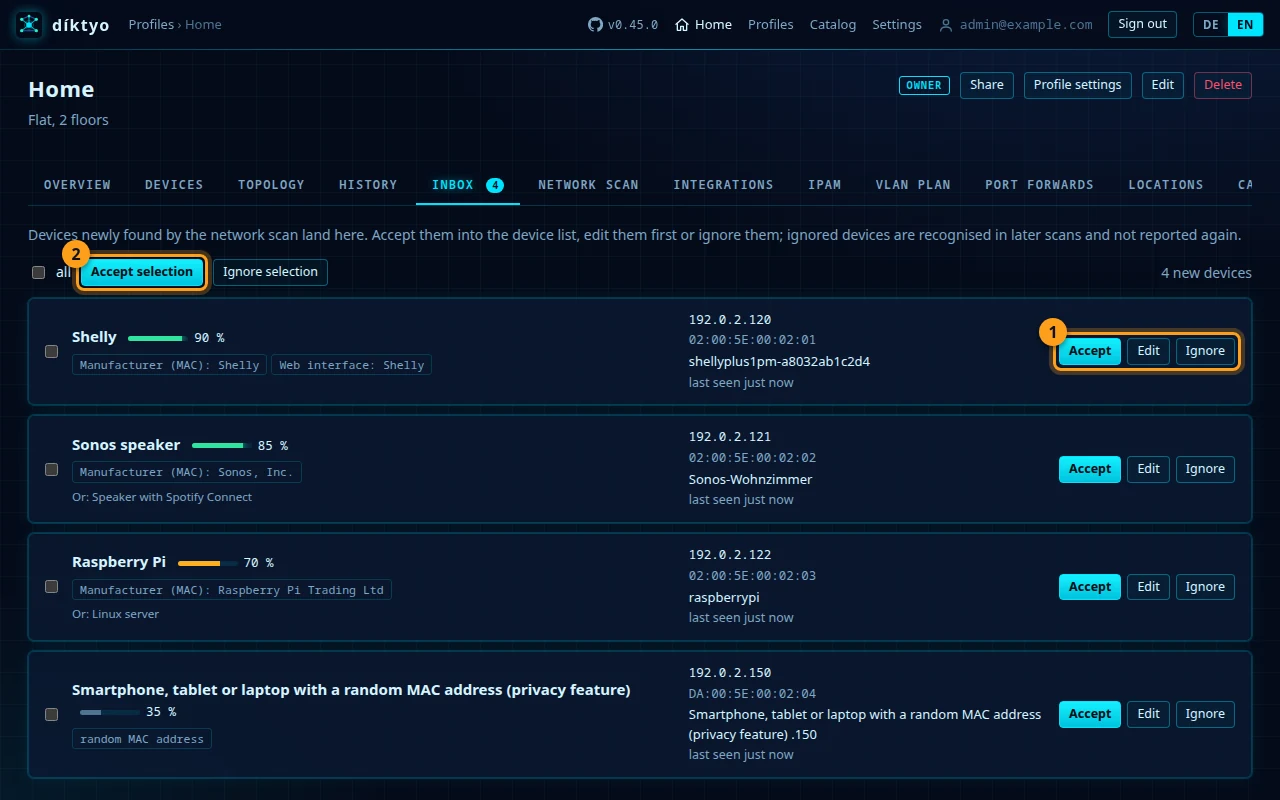
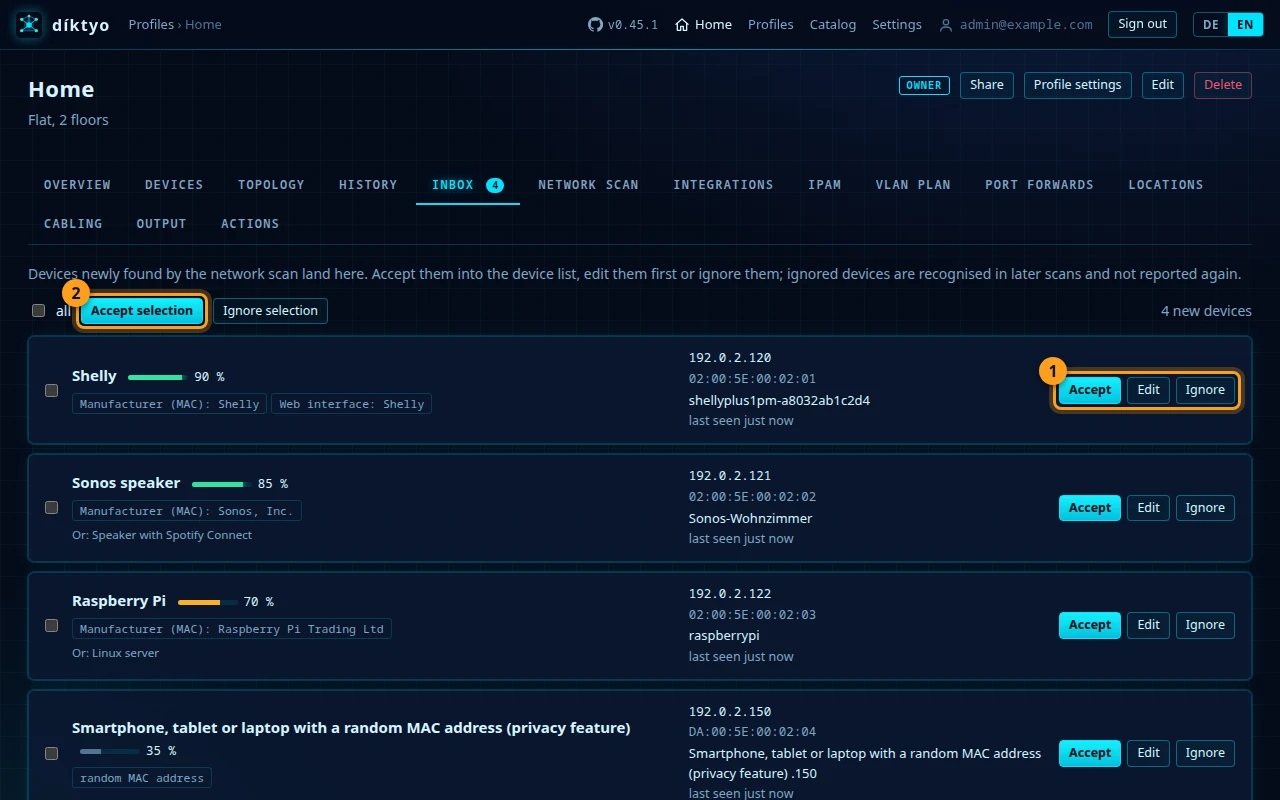
Reiterleiste bricht um, Integrationskacheln ohne Lücken, FRITZ!Box-Portfreigaben robuster mit sichtbarem Grund (0.45.1)
- Reiterleiste: Umbruch in eine zweite Zeile statt seitlichem Scrollen
- Integrationen: Kacheln rücken nach oben auf (Masonry über Grid-Zeilen + ResizeObserver)
- FRITZ!Box: Standardverbindung zuerst, Lesen auch ohne GetPortMappingNumberOfEntries,
  Grund im Reiter Portfreigaben, wenn die Liste fehlt (Recht „FRITZ!Box Einstellungen“, Box ohne Abfrage)
- UPnP-Fehler 401 (Aktion fehlt) gilt nicht mehr als abgelehnte Anmeldung

Changed region(s): [[0.0, 0.25, 1.0, 1.0], [0.8125, 0.5625, 0.9688, 0.6562]]

diff --git a/app/static/portfw.js b/app/static/portfw.js
@@ -59,7 +59,8 @@ async function tabPortfw(ctx) {
     ctx.el.innerHTML = `<div class="panel">
       <div class="hud-h"><h3>${t('Portfreigaben und UPnP')}</h3>${st.new ? `<span class="hint">${t('{n} neu', { n: st.new })}</span>` : ''}</div>
       <p class="muted small">${t('Was der Router aus dem Internet an Geräte im Heimnetz weiterleitet – eingerichtete Freigaben und solche, die Geräte per UPnP selbst angelegt haben. Neue Einträge bleiben markiert, bis du sie als bekannt bestätigst. díktyo ändert nichts am Router.')}</p>
-      ${!st.sources.length ? `<div class="hint-box small">${t('Noch keine Quelle. Portfreigaben liefern: FRITZ!Box (mit Benutzer), ASUS, OpenWrt, MikroTik (API/REST), OPNsense (ab 25.7) und UniFi – jeweils als Integration.')}</div>` : `
+      ${(st.problems || []).map(x => `<div class="hint-box small warnc"><b>${h(x.name)}:</b> ${h(ts(x.error))}${x.driver === 'fritzbox' && /Recht/.test(x.error) ? ` – ${t('in der FRITZ!Box unter System → FRITZ!Box-Benutzer → Benutzer bearbeiten.')}` : ''}</div>`).join('')}
+      ${!st.sources.length && (st.problems || []).length ? '' : !st.sources.length ? `<div class="hint-box small">${t('Noch keine Quelle. Portfreigaben liefern: FRITZ!Box (mit Benutzer), ASUS, OpenWrt, MikroTik (API/REST), OPNsense (ab 25.7) und UniFi – jeweils als Integration.')}</div>` : `
       <div class="kv small"><span>${t('Freigaben')}: <b>${st.total}</b></span><span>UPnP: <b>${st.upnp}</b></span><span>${t('Quellen')}: ${src}</span></div>
       <div class="row pf-filters" style="margin:10px 0;flex-wrap:wrap;gap:8px">
         <input type="search" id="pfq" placeholder="${h(t('Suchen (IP, Port, Gerät, Beschreibung) …'))}" value="${h(ui.q)}" style="max-width:320px">

diff --git a/app/static/integrations.js b/app/static/integrations.js
@@ -182,6 +182,24 @@ function rangeButtons(cur) {
 /* Integrationen mit Diagrammen oder Port-/Gerätelisten bekommen im Raster doppelte Breite */
 const BIG_CARDS = ['fritzbox', 'snmp', 'devolo', 'asuswrt', 'proxmox', 'omada', 'unifi', 'mikrotik', 'opnsense', 'openwrt'];
 
+/* Kacheln ohne Lücken: jede Kachel belegt so viele 4-px-Zeilen, wie sie hoch ist; neu berechnet, sobald sich ihre Höhe ändert
+   (Diagramme, aufgeklappte Kanaltabellen …). Die Reihenfolge bleibt zeilenweise von links nach rechts. */
+function masonry(grid) {
+  if (!grid) return;
+  masonry.ro?.disconnect();
+  grid.classList.add('masonry');
+  const fit = card => {
+    const hgt = card.getBoundingClientRect().height + 16;
+    card.style.gridRowEnd = `span ${Math.max(1, Math.ceil(hgt / 4))}`;
+  };
+  const cards = [...grid.children].filter(c => c.classList.contains('integ'));
+  cards.forEach(fit);
+  if (window.ResizeObserver) {
+    masonry.ro = new ResizeObserver(es => es.forEach(e => fit(e.target)));
+    cards.forEach(c => masonry.ro.observe(c));
+  }
+}
+
 async function tabIntegrations(ctx) {
   await meta(ctx.pid);  // Auswahllisten für den Gerätedialog („Gerät öffnen“)
   const P = `/api/profiles/${ctx.pid}`;
@@ -296,6 +314,7 @@ async function tabIntegrations(ctx) {
       }
     }
   }
+  masonry($('#ints', ctx.el));
   // Ansicht aktuell halten, solange der Reiter offen ist
   { const hb = document.createElement('div'); hb.style.marginTop = '16px'; ctx.el.appendChild(hb); waits.push(healthPanel(ctx, hb)); }
   clearTimeout(tabIntegrations.timer);

diff --git a/app/static/style.css b/app/static/style.css
@@ -142,7 +142,7 @@ dialog .f{display:flex;justify-content:flex-end;gap:8px;padding:14px 20px;border
 .row.top{align-items:flex-start}
 .block{display:block}
 .small{font-size:12.5px}
-.tabs{display:flex;gap:2px;border-bottom:1px solid var(--line);margin:18px 0 18px;overflow-x:auto}
+.tabs{display:flex;flex-wrap:wrap;gap:2px;border-bottom:1px solid var(--line);margin:18px 0 18px}
 .tabs a{padding:9px 16px;color:var(--mute);text-decoration:none;font:600 12px/1.4 var(--mono);text-transform:uppercase;letter-spacing:.1em;border-bottom:2px solid transparent;white-space:nowrap}
 .tabs a:hover{color:var(--ink)}
 .tabs a.on{color:var(--cyan);border-bottom-color:var(--cyan);text-shadow:0 0 10px rgba(0,229,255,.5)}
@@ -587,6 +587,9 @@ a.kpi:hover{border-color:var(--cyan);box-shadow:0 0 18px rgba(0,229,255,.25)}
 /* Integrationen im Raster: große Karten (Diagramme, Ports) doppelt breit, kleine einfach */
 .ints-grid{display:grid;grid-template-columns:repeat(auto-fill,minmax(440px,1fr));gap:16px;grid-auto-flow:row dense;align-items:start}
 .ints-grid>.integ{min-width:0}
+/* Kacheln rücken nach oben auf (Masonry): Zeilen à 4 px, jede Kachel belegt so viele, wie sie hoch ist (integrations.js) */
+.ints-grid.masonry{grid-auto-rows:4px;row-gap:0}
+.ints-grid.masonry>.integ{margin-bottom:16px}
 .ints-grid>.integ.big{grid-column:span 2}
 .ints-grid>.empty-box{grid-column:1/-1}
 @media (max-width:1000px){.ints-grid{grid-template-columns:1fr}.ints-grid>.integ.big{grid-column:auto}}

diff --git a/app/static/i18n.js b/app/static/i18n.js
@@ -1203,6 +1203,7 @@ Object.assign(window.I18N_EN, {
   "1 neue Portfreigabe": "1 new port forward",
   "{n} neue Portfreigaben": "{n} new port forwards",
   "Neue Portfreigabe (auch UPnP)": "New port forward (incl. UPnP)",
+  'in der FRITZ!Box unter System → FRITZ!Box-Benutzer → Benutzer bearbeiten.': 'in the FRITZ!Box under System → FRITZ!Box Users → edit user.',
   'Kabel-Etiketten': 'Cable labels', 'Kabel suchen …': 'Search cables …', 'Kein Kabel passt.': 'No cable matches.',
   'je Kabelende ein Etikett (nennt die Gegenstelle)': 'one label per cable end (names the far end)',
   'Noch keine Kabelnummern. Trage sie im Reiter Verkabelung bei den Kabelwegen ein (Patchkabel, Verlegekabel, Anschlusskabel).': 'No cable numbers yet. Enter them for the cable runs in the Cabling tab (patch cable, installation cable, device cable).',

diff --git a/tests/test_p3_portforwards.py b/tests/test_p3_portforwards.py
@@ -18,16 +18,36 @@ def test_common_format():
     assert forward("upnp", "udp", "any", "192.0.2.6", None, lease="3600")["ext"] == "" and forward("upnp", "udp", 1, "x", lease="3600")["lease"] == 3600
 
 
+class FritzActionError(Exception):  # wie fritzconnection: UPnP-Fehler 401 = Aktion/Dienst fehlt (keine Anmeldefrage)
+    pass
+
+
+class FritzSecurityError(Exception):  # UPnP-Fehler 606 = Aktion nicht erlaubt (Benutzerrecht fehlt)
+    pass
+
+
+class FritzArrayIndexError(Exception):  # UPnP-Fehler 713 = Index gibt es nicht (Ende der Liste)
+    pass
+
+
 class FakeFC:
-    def __init__(self, entries, svc="WANIPConn1"):
-        self.entries, self.svc, self.calls = entries, svc, 0
+    def __init__(self, entries, svc="WANIPConn1", count=True, perm=True, default=None):
+        self.entries, self.svc, self.calls, self.count, self.perm, self.default = entries, svc, 0, count, perm, default
 
     def call_action(self, svc, act, **kw):
         self.calls += 1
+        if svc == "Layer3Forwarding1" and self.default:
+            return {"NewDefaultConnectionService": self.default}
         if svc != self.svc:
-            raise Exception("UPnPError 401: invalid action")
+            raise FritzActionError("UPnPError:\nerrorCode: 401\nerrorDescription: Invalid Action")
+        if not self.perm:
+            raise FritzSecurityError("UPnPError:\nerrorCode: 606\nerrorDescription: Action not authorized")
         if act == "GetPortMappingNumberOfEntries":
+            if not self.count:
+                raise FritzActionError("UPnPError:\nerrorCode: 401\nerrorDescription: Invalid Action")
             return {"NewPortMappingNumberOfEntries": len(self.entries)}
+        if kw["NewPortMappingIndex"] >= len(self.entries):
+            raise FritzArrayIndexError("UPnPError:\nerrorCode: 713\nerrorDescription: SpecifiedArrayIndexInvalid")
         return self.entries[kw["NewPortMappingIndex"]]
 
 
@@ -45,13 +65,32 @@ def test_fritzbox_reader_and_interval():
         ("", "TCP", "443", "192.168.178.50", "Nextcloud", None), ("upnp", "UDP", "51413", "192.168.178.77", "Transmission", 3500)]
     assert len(fritzbox.forwards(FakeFC(FB_ENTRIES, svc="WANPPPConnection1"))) == 2  # DSL mit PPPoE
     fc, st = FakeFC(FB_ENTRIES), {}
-    assert fritzbox.poll_forwards(fc, {}, st) == (None, False)  # ohne Benutzer/Passwort nicht lesbar
-    lst, cached = fritzbox.poll_forwards(fc, {"password": "pw"}, st, now=1000)
-    assert len(lst) == 2 and not cached
+    assert fritzbox.poll_forwards(fc, {}, st) == (None, False, fritzbox.PF_ERR["nopw"])  # ohne Benutzer/Passwort nicht lesbar
+    lst, cached, err = fritzbox.poll_forwards(fc, {"password": "pw"}, st, now=1000)
+    assert len(lst) == 2 and not cached and err == ""
     n = fc.calls
-    lst, cached = fritzbox.poll_forwards(fc, {"password": "pw"}, st, now=1000 + 60)
+    lst, cached, _ = fritzbox.poll_forwards(fc, {"password": "pw"}, st, now=1000 + 60)
     assert cached and fc.calls == n  # innerhalb von 5 Minuten keine neuen TR-064-Abfragen
     assert not fritzbox.poll_forwards(fc, {"password": "pw"}, st, now=1000 + fritzbox.FORWARDS_S)[1]
+    # Box ohne GetPortMappingNumberOfEntries: bis zum ungültigen Index (713) lesen
+    assert len(fritzbox.forwards(FakeFC(FB_ENTRIES, count=False))) == 2
+    assert fritzbox.forwards(FakeFC([], count=False)) == []  # keine Freigaben ist kein Fehler
+    # Standardverbindung (Layer3Forwarding) zuerst
+    fc = FakeFC(FB_ENTRIES, svc="WANPPPConnection1", default="InternetGatewayDevice.WANDevice.1.WANConnectionDevice.1.WANPPPConnection.1")
+    assert len(fritzbox.forwards(fc)) == 2 and fritzbox._pf_services(fc)[0] == "WANPPPConnection1"
+    # Benutzerrecht fehlt (606) -> Grund im Ergebnis statt stiller Lücke
+    lst, _, err = fritzbox.poll_forwards(FakeFC(FB_ENTRIES, perm=False), {"password": "pw"}, {}, now=1)
+    assert lst is None and err == fritzbox.PF_ERR["perm"]
+    # Box ohne die Aktionen
+    lst, _, err = fritzbox.poll_forwards(FakeFC(FB_ENTRIES, svc="X"), {"password": "pw"}, {}, now=1)
+    assert lst is None and err == fritzbox.PF_ERR["missing"]
+    # UPnP-Fehler 401 ist keine abgelehnte Anmeldung
+    try:
+        fritzbox._call(FakeFC([], svc="X"), "WANIPConn1", "GetInfo")
+    except PermissionError:
+        raise AssertionError("Invalid Action als Anmeldefehler gewertet")
+    except FritzActionError:
+        pass
 
 
 def test_router_readers():
@@ -108,7 +147,11 @@ def test_track_events_ack_notes_and_dashboard(monkeypatch):
     out = {"forwards": fb_list[:1], "cached": False}
 
     def fake_poll(conf, state):
-        res = dict(info=dict(model="FRITZ!Box 7590"), wan={}, hosts=[], mesh={}, auth=True, wlan=[], forwards=out["forwards"], forwards_cached=out["cached"])
+        res = dict(info=dict(model="FRITZ!Box 7590"), wan={}, hosts=[], mesh={}, auth=True, wlan=[])
+        if out.get("error"):
+            res["forwards_error"] = out["error"]
+        else:
+            res.update(forwards=out["forwards"], forwards_cached=out["cached"])
         return res, {}, state
     monkeypatch.setattr(fritzbox, "poll", fake_poll)
 
@@ -152,6 +195,14 @@ def test_track_events_ack_notes_and_dashboard(monkeypatch):
     integrations.poll(d["fiid"])
     st = cl.get(f"{P}/portforwards").json()
     assert st["total"] == 2 and st["new"] == 1 and len(events()) == 2
+    # Liste nicht lesbar: Grund erscheint im Reiter, Bekanntes wird nicht verworfen
+    out["error"] = fritzbox.PF_ERR["perm"]
+    integrations.poll(d["fiid"])
+    st = cl.get(f"{P}/portforwards").json()
+    assert st["total"] == 0 and st["problems"] == [dict(id=d["fiid"], name="FRITZ!Box", driver="fritzbox", error=fritzbox.PF_ERR["perm"])]
+    out.pop("error")
+    integrations.poll(d["fiid"])
+    assert cl.get(f"{P}/portforwards").json()["new"] == 1 and len(events()) == 2
     # Lesen-Recht: sehen ja, quittieren nein
     from fastapi.testclient import TestClient
     from app import main, users
@@ -169,4 +220,4 @@ def test_track_events_ack_notes_and_dashboard(monkeypatch):
     with db() as c:
         pf = json.loads(c.execute("SELECT settings FROM profiles WHERE id=?", (pid,)).fetchone()["settings"])["portfw"]
     assert pf["known"] == {} and pf["notes"] == {} and pf["base"] == []
-    assert cl.get(f"{P}/portforwards").json() == dict(items=[], sources=[], new=0, upnp=0, total=0)
+    assert cl.get(f"{P}/portforwards").json() == dict(items=[], sources=[], problems=[], new=0, upnp=0, total=0)

diff --git a/app/drivers/fritzbox.py b/app/drivers/fritzbox.py
@@ -46,7 +46,9 @@ def _call(fc, svc, act, **kw):
     try:
         return fc.call_action(svc, act, **kw)
     except Exception as ex:
-        if "401" in str(ex) or "Authorization" in type(ex).__name__:
+        # HTTP 401 = Anmeldung abgelehnt; UPnP-Fehler 401 („Invalid Action“, FritzActionError) heißt nur: Aktion fehlt
+        if "Authorization" in type(ex).__name__ or ("401" in str(ex) and type(ex).__name__ not in ("FritzActionError", "FritzServiceError")
+                                                     and "errorCode" not in str(ex)):
             raise PermissionError(str(ex))
         raise
 
@@ -648,46 +650,91 @@ def poll_line(fc, conf, state, now=None):
 FORWARDS_S = 300  # je Eintrag eine eigene Abfrage – deshalb nur alle 5 Minuten
 
 
-def forwards(fc):
+def _pf_services(fc):
+    """Dienste mit Portfreigaben: die Standardverbindung zuerst (Layer3Forwarding), dann alle WANIP-/WANPPP-Dienste der Box."""
+    names = list(getattr(fc, "services", None) or [])
+    cand = [n for n in names if n.startswith(("WANIPConn", "WANPPPConn"))] or ["WANIPConn1", "WANPPPConnection1"]
+    try:
+        d = str(_call(fc, "Layer3Forwarding1", "GetDefaultConnectionService").get("NewDefaultConnectionService") or "")
+        pref = "WANPPPConnection" if "WANPPP" in d else "WANIPConn" if "WANIP" in d else ""
+        if pref:
+            cand.sort(key=lambda n: not n.startswith(pref))
+    except Exception:
+        pass
+    return cand
+
+
+def _pf_err(ex):
+    """Fehler einer TR-064-Abfrage als Kurzbeschreibung."""
+    txt = str(ex)
+    if isinstance(ex, PermissionError) or type(ex).__name__ == "FritzSecurityError" or "606" in txt:
+        return "perm"
+    if type(ex).__name__ in ("FritzActionError", "FritzServiceError") or "401" in txt or "Invalid Action" in txt:
+        return "missing"
+    return " ".join(txt.split())[:160] or type(ex).__name__
+
+
+def forwards(fc, errors=None):
     """IPv4-Portfreigaben über TR-064 (WANIPConnection bzw. WANPPPConnection). TR-064 unterscheidet nicht, ob eine Freigabe
     in der Oberfläche eingerichtet oder von einem Gerät (UPnP/PCP) angelegt wurde – mit Laufzeit gilt sie als automatisch.
-    None, wenn die Box die Liste nicht liefert."""
+    Kennt die Box GetPortMappingNumberOfEntries nicht, wird bis zum ersten ungültigen Index gelesen.
+    None, wenn die Box die Liste nicht liefert; die Gründe landen dann in errors."""
     from .controller import forward
+    errors = [] if errors is None else errors
     best = None
-    for svc in ("WANIPConn1", "WANPPPConnection1"):
+    for svc in _pf_services(fc):
+        n = None
         try:
             n = int(_call(fc, svc, "GetPortMappingNumberOfEntries").get("NewPortMappingNumberOfEntries") or 0)
-        except Exception:
-            continue
-        out = []
-        for i in range(min(n, 200)):
+        except Exception as ex:
+            errors.append(_pf_err(ex))
+        out, ok = [], n is not None
+        for i in range(min(n, 200) if n is not None else 200):
             try:
                 r = _call(fc, svc, "GetGenericPortMappingEntry", NewPortMappingIndex=i)
-            except Exception:
+            except Exception as ex:
+                e = _pf_err(ex)
+                if n is None and i == 0 and type(ex).__name__ != "FritzArrayIndexError" and "713" not in str(ex):
+                    errors.append(e)  # Eintrag 0 nicht lesbar und keine Anzahl: dieser Dienst liefert nichts
+                else:
+                    ok = True  # Liste zu Ende (713 = ungültiger Index)
                 break
+            ok = True
             lease = r.get("NewLeaseDuration")
             out.append(forward("upnp" if str(lease or "0") not in ("0", "") else "", r.get("NewProtocol"), r.get("NewExternalPort"),
                                r.get("NewInternalClient"), r.get("NewInternalPort"), r.get("NewPortMappingDescription"),
                                str(r.get("NewEnabled")) in ("1", "True", "true"), r.get("NewRemoteHost") or "", lease))
-        if best is None or len(out) > len(best):
+        if ok and (best is None or len(out) > len(best)):
             best = out
     return best
 
 
+PF_ERR = {
+    "perm": "Keine Berechtigung für die Portfreigaben – der FRITZ!Box-Benutzer braucht das Recht „FRITZ!Box Einstellungen“",
+    "missing": "Diese FRITZ!Box liefert die Portfreigaben nicht über TR-064",
+    "nopw": "Für die Portfreigaben Benutzer und Passwort angeben",
+}
+
+
 def poll_forwards(fc, conf, state, now=None):
-    """-> (liste oder None, aus dem Zwischenspeicher?)"""
+    """-> (liste oder None, aus dem Zwischenspeicher?, fehlertext oder "")"""
     import time
     now = now or time.time()
     if not conf.get("password"):
-        return None, False
-    if state.get("pf_list") is not None and now - (state.get("pf_ts") or 0) < FORWARDS_S:
-        return state["pf_list"], True
+        return None, False, PF_ERR["nopw"]
+    if "pf_list" in state and now - (state.get("pf_ts") or 0) < FORWARDS_S:
+        return state["pf_list"], True, state.get("pf_err") or ""
+    errors = []
     try:
-        lst = forwards(fc)
-    except PermissionError:
-        lst = None
-    state["pf_ts"], state["pf_list"] = now, lst
-    return lst, False
+        lst = forwards(fc, errors)
+    except Exception as ex:
+        lst, errors = None, [_pf_err(ex)]
+    err = ""
+    if lst is None:
+        code = "perm" if "perm" in errors else next((e for e in errors if e not in ("perm", "missing")), "missing")
+        err = PF_ERR.get(code) or f"Portfreigaben nicht lesbar: {code}"
+    state["pf_ts"], state["pf_list"], state["pf_err"] = now, lst, err
+    return lst, False, err
 
 
 def fw_version(s):
@@ -724,9 +771,11 @@ def poll(conf, state):
     if "rx_bps" in res["wan"]:
         metrics = {"wan:rx": res["wan"]["rx_bps"], "wan:tx": res["wan"]["tx_bps"]}
     state = dict(state)
-    fw_list, cached = poll_forwards(fc, conf, state)
+    fw_list, cached, fw_err = poll_forwards(fc, conf, state)
     if fw_list is not None:
         res["forwards"], res["forwards_cached"] = fw_list, cached
+    elif fw_err:
+        res["forwards_error"] = fw_err
     line, lm = poll_line(fc, conf, state)
     if line:
         res["line"] = line

diff --git a/app/portforwards.py b/app/portforwards.py
@@ -79,10 +79,12 @@ def _devices_by_ip(c, pid):
 def state(c, pid, device_id=None):
     _, pf = _load(c, pid)
     by_ip = _devices_by_ip(c, pid)
-    items, sources = [], []
+    items, sources, problems = [], [], []
     for r in c.execute("SELECT id, name, driver, enabled, state FROM integrations WHERE profile_id=? ORDER BY id", (pid,)):
         res = (json.loads(r["state"] or "{}").get("result") or {})
         if "forwards" not in res:
+            if res.get("forwards_error"):  # Quelle vorhanden, Liste aber nicht lesbar: Grund im Reiter zeigen
+                problems.append(dict(id=r["id"], name=r["name"], driver=r["driver"], error=res["forwards_error"]))
             continue
         sources.append(dict(id=r["id"], name=r["name"], driver=r["driver"], kind=DRIVER_NAMES.get(r["driver"], r["driver"]),
                             count=len(res["forwards"] or []), enabled=bool(r["enabled"])))
@@ -94,7 +96,7 @@ def state(c, pid, device_id=None):
             items.append(dict(f, key=k, integration=r["id"], source=r["name"], driver=r["driver"], device=dev,
                               note=pf["notes"].get(k, ""), new=k in pf["new"], since=pf["known"].get(k)))
     items.sort(key=lambda x: (not x["new"], (x["device"] or {}).get("name", "~" + x["ip"]).lower(), x["proto"], x["ext"]))
-    return dict(items=items, sources=sources, new=sum(1 for x in items if x["new"]),
+    return dict(items=items, sources=sources, problems=problems, new=sum(1 for x in items if x["new"]),
                 upnp=sum(1 for x in items if x["kind"] == "upnp"), total=len(items))
 
 

diff --git a/app/msg_en.py b/app/msg_en.py
@@ -521,3 +521,12 @@ ERR_EN.update({
 ERR_EN.update({
     "Diese Freigabe gibt es nicht (mehr)": "This port forward does not exist (any more)",
 })
+
+# Portfreigaben der FRITZ!Box: Gründe, wenn die Liste fehlt (0.45.1)
+ERR_EN.update({
+    "Keine Berechtigung für die Portfreigaben – der FRITZ!Box-Benutzer braucht das Recht „FRITZ!Box Einstellungen“":
+        "No permission for port forwards – the FRITZ!Box user needs the “FRITZ!Box settings” right",
+    "Diese FRITZ!Box liefert die Portfreigaben nicht über TR-064": "This FRITZ!Box does not provide its port forwards via TR-064",
+    "Für die Portfreigaben Benutzer und Passwort angeben": "Enter user name and password for the port forwards",
+})
+ERR_EN_PREFIX["Portfreigaben nicht lesbar: "] = "Port forwards not readable: "

diff --git a/app/integrations.py b/app/integrations.py
@@ -151,6 +151,8 @@ def _slim(driver, res):
     out = _slim_view(driver, res)
     if res.get("forwards") is not None:  # Portfreigaben (alle Router-Treiber)
         out["forwards"] = res["forwards"]
+    elif res.get("forwards_error"):
+        out["forwards_error"] = res["forwards_error"]
     rates = client_rates(res)
     if rates:
         out["rates"] = rates

diff --git a/app/version.py b/app/version.py
@@ -1,3 +1,3 @@
 """Version und Projektadresse von díktyo (eine Stelle für alles)."""
-VERSION = "0.45.0"
+VERSION = "0.45.1"
 REPO_URL = "https://github.com/xpistaki-bit/diktyo"

diff --git a/docs/architecture.md b/docs/architecture.md
@@ -118,6 +118,7 @@ Phase 2:
 | P3.29 | planned guest VLANs: `profiles.settings.vlan_plan.guests` = {device_id: vid or null} (only deviations); `vlanplan.set_guest_plan` (`PUT /vlanplan/plan/guests`, VLAN must exist, also planned), `state` adds `plan_vid`/`plan_vlan_id`/`changed` per guest and `guest_diff`; checks use planned tags in plan mode; `plan_finish` counts open guest changes; PDF change list includes guests; dropped with the plan | done (0.43.0) |
 | P3.30 | FRITZ!Box line values: `fritzbox.poll_line` – DSL via TR-064 `WANDSLInterfaceConfig1` (GetInfo, GetStatisticsTotal; AVM reports 1/10 dB) on every poll; cable via web login + `data.lua?page=docInfo` every `LINE_WEB_S` (900 s), logout afterwards, `LINE_BLOCK_S` back-off after a rejected login; `parse_docinfo`, `line_hints` (guide values, de/en text), `line_metrics` (`line:snr_*`, `line:rate_*`, `line:us_pwr_max`, `line:err` = new errors since last measurement); state keeps `line_kind`/`line_last`/`line_hints`; `integrations.line_events` emits `line_degraded` once per new hint code; dashboard issues, pin unit `dB`, Prometheus `diktyo_line_*` | done (0.44.0) |
 | P3.31 | port forwards / UPnP: drivers return `res["forwards"]` in the common format `controller.forward` (kind static/upnp/"", proto, ext, ip, port, desc, enabled, remote, lease); FRITZ!Box via TR-064 every `FORWARDS_S` (300 s, `forwards_cached` otherwise), ASUS `vts_rulelist` + `get_upnp_array()` (every 300 s), OpenWrt uci firewall redirects + `luci.upnp`, MikroTik `ip/firewall/nat` dst-nat, OPNsense `firewall/d_nat/search_rule`, UniFi `rest/portforward`; `_slim` keeps `forwards`; `portforwards.track` after each poll (baseline on first run, `port_forward_new` event, key includes target so re-pointing counts as new), state in `profiles.settings.portfw` (known/new/notes/base); API `GET /portforwards[.csv]`, `POST /portforwards/ack`, `PUT /portforwards/note`; device detail adds `forwards`; dashboard count `portfw_new`; tab `portfreigaben` (portfw.js) | done (0.45.0) |
+| P3.31a | `.tabs` wraps (flex-wrap) instead of horizontal scroll; integration cards use a JS masonry (`masonry()` in integrations.js: 4 px grid rows, `grid-row-end: span n` from each card's height, ResizeObserver keeps it current); FRITZ!Box forwards: `_pf_services` (Layer3Forwarding default first), reading without `GetPortMappingNumberOfEntries` until 713, `poll_forwards` returns `(list, cached, error)` and caches failures for `FORWARDS_S`, `res["forwards_error"]` -> `portforwards.state()["problems"]` shown in the tab; `_call` no longer maps UPnP error 401 (Invalid Action) to PermissionError | done (0.45.1) |
 | P3.2 | speed tests: internet (Cloudflare, scheduled, history, slow-line hint) and iperf3 to a device | done (0.19.0) |
 | P2.16 | live traffic per client (Omada, UniFi stat/sta, MikroTik registrations/Kid Control, OPNsense top talkers, Proxmox guests) in topology, device dialog and overview; illustrated getting-started guide | done (0.18.0), client rates not yet tested on real hardware |
  Phase 3: change history between scans, cable and patch-panel documentation,

diff --git a/docs/ROADMAP.de.md b/docs/ROADMAP.de.md
@@ -1,6 +1,6 @@
 # díktyo – Plan, Erweiterungen und Verbesserungen
 
-Stand: Version 0.45.0 (November 2026). Ideen aus NetworkOptimizer, NetAlertX, homelable, reconYa, netronome,
+Stand: Version 0.45.1 (November 2026). Ideen aus NetworkOptimizer, NetAlertX, homelable, reconYa, netronome,
 ZeroTier und ntop sind in Abschnitt 4 eingeordnet (nur Ideen, kein übernommener Code). Die ausführliche Bedienung steht in [ANLEITUNG.de.md](ANLEITUNG.de.md),
 der technische Aufbau in [architecture.md](architecture.md).
 
@@ -64,6 +64,7 @@ der technische Aufbau in [architecture.md](architecture.md).
 | VLAN-Plan: VMs und Container | Im Plan-Modus geplantes VLAN-Tag je VM/Container (Klick auf den Gast), Anzeige „alt → neu“, eigener Abschnitt in der Umstellungsliste („in Proxmox umstellen“), erledigt sich, sobald Proxmox das neue Tag meldet; Prüfung des Host-Ports mit den geplanten Tags; Abschließen/Verwerfen und PDF berücksichtigen die Gäste | 0.43 |
 | Leitungswerte der FRITZ!Box | DSL über TR-064 (Sync-Rate, möglich, Störabstand, Dämpfung, CRC/FEC, Neusynchronisierungen), Kabel/DOCSIS über die Weboberfläche alle 15 Minuten (alle Kanäle mit Pegel, MSE/MER, Fehlern; Abmeldung danach, eine Stunde Pause nach abgelehnter Anmeldung); Hinweise nach Richtwerten auf der Karte und unter *Braucht Aufmerksamkeit*, Benachrichtigung „Leitung verschlechtert“, Störabstand im Verlauf (anheftbar, Einheit dB), Prometheus-Metriken | 0.44 |
 | Portfreigaben und UPnP | Eigener Reiter: Freigaben und UPnP-Weiterleitungen aus FRITZ!Box (TR-064, alle 5 min), ASUS (Virtueller Server + UPnP-Liste), OpenWrt (DNAT + luci-app-upnp), MikroTik (dst-nat), OPNsense (Destination NAT ab 25.7) und UniFi; Gerät hinter der Ziel-IP, riskante Dienste markiert, Notiz, CSV; neue bzw. umgebogene Freigaben markiert bis zum Bestätigen, in der Übersicht und als Benachrichtigung; Abschnitt im Gerätedialog | 0.45 |
+| Nachbesserungen | Reiterleiste bricht in eine zweite Zeile um statt seitlich zu scrollen; Integrationskacheln rücken nach oben auf (keine Lücken mehr); FRITZ!Box-Portfreigaben robuster (Standardverbindung zuerst, Lesen ohne Eintragsanzahl) und mit sichtbarem Grund, wenn die Liste fehlt (fehlendes Recht „FRITZ!Box Einstellungen“, Box ohne Abfrage); UPnP-Fehler 401 („Aktion fehlt“) gilt nicht mehr als abgelehnte Anmeldung | 0.45.1 |
 | MikroTik und Sprache | MikroTik über die RouterOS-API (Port 8728/8729, RouterOS 6 und 7) als Standard, REST weiter wählbar, kein SSH-Backup mehr (RouterOS hat eigene Backups); alle Server-Meldungen, Aktionen, Diagnosen und gespeicherten Fehler auf Englisch, wenn Englisch gewählt ist (auch in Benachrichtigungen), Test gegen fehlende Übersetzungen; automatisch erzeugte Gerätenamen auf Englisch | 0.33.1 |
 | Netzplan-Export | Topologie als SVG, PNG (doppelte Auflösung), draw.io (Geräte mit IP/MAC/Typ/Modell/Standort als Eigenschaften) und Poster-PDF A4–A0 mit Schriftfeld, wahlweise auf A4 gekachelt mit Überlappung und Blattnummern; Gruppen aufklappbar; in Topologie und Ausgabe | 0.33 |
 
